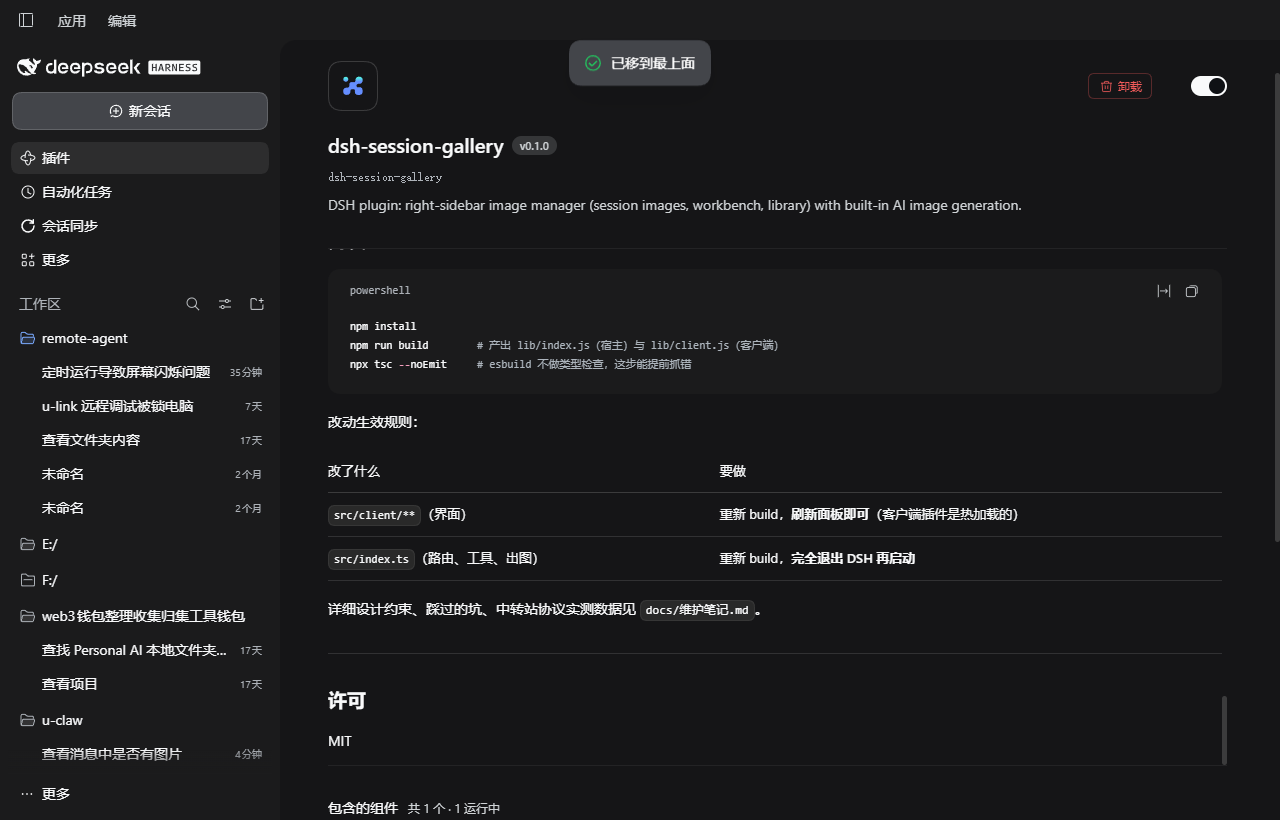
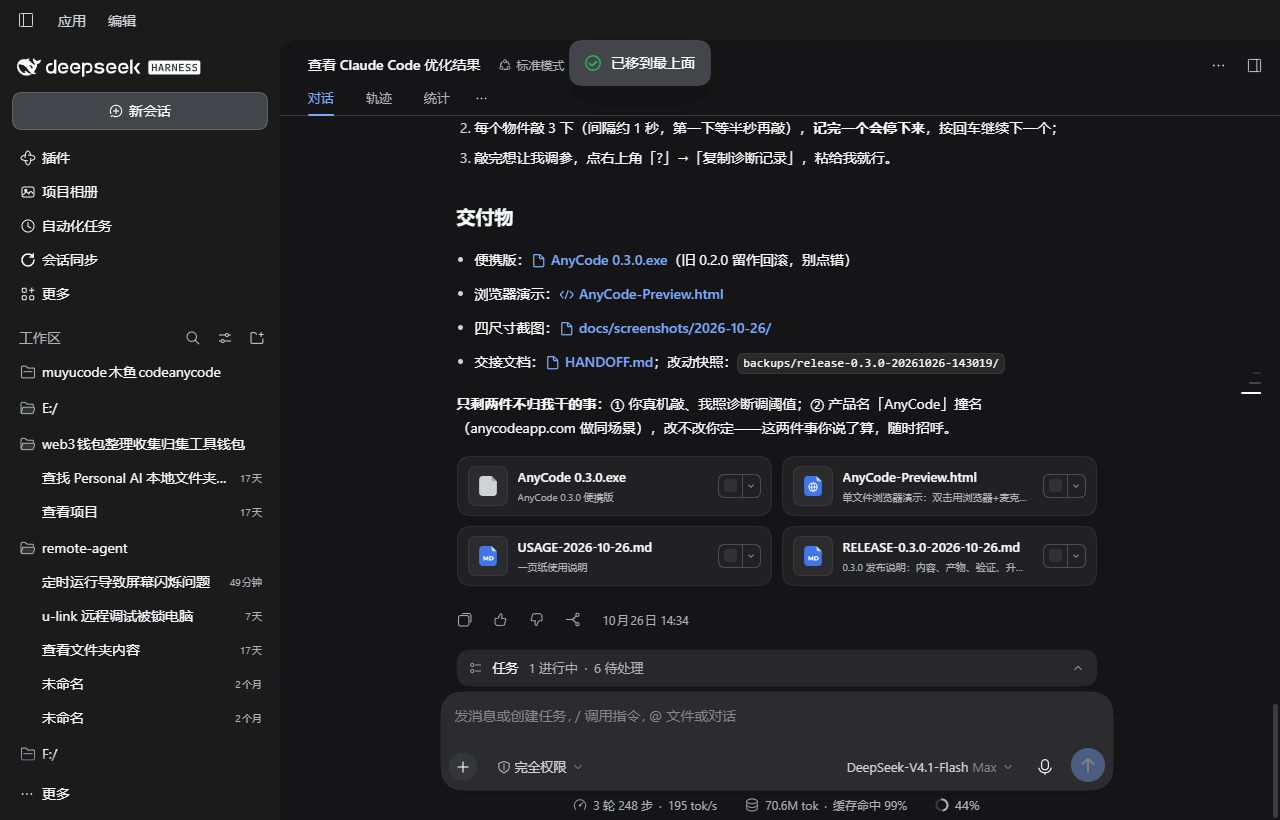
feat(0.4.2): give the structured menu row an up-arrow glyph
The structured row was label-only, so it looked different from the legacy build
that painted its own arrow. Register a contextMenu.icon keyed slot (14px SVG,
currentColor) and attach icon: { key: 'workspace.move-up' } to the action - the
same mechanism the built-in Rename/Delete actions use. Falls back to a label-only
row when react is unavailable.

Verified on macOS web (0.2.2-rc.1) and the Windows desktop app (0.2.2-rc.3):
glyph renders, moving a workspace reorders the list, toast and durable write
confirmed. Screenshots refreshed.

diff --git a/client/client.js b/client/client.js
@@ -46,6 +46,24 @@ window.__ModuleLoader__.load({
     // One installation per host context, even if the loader activates the bundle twice.
     var INSTALLED = typeof WeakSet === 'function' ? new WeakSet() : null
 
+    // The host renders a structured menu row from data; its glyph comes from the
+    // `contextMenu.icon` keyed slot. React is a host-provided module here (the
+    // same one the built-in menus use); when it is unavailable the row simply has
+    // no glyph, which is how 0.4.1 behaved.
+    var ICON_KEY = 'workspace.move-up'
+    var React = null
+    try { React = require('react') } catch (error) { React = null }
+    function MoveUpIcon() {
+      return React.createElement('svg', {
+        width: 14, height: 14, viewBox: '0 0 16 16', fill: 'none',
+        stroke: 'currentColor', strokeWidth: 1.5, strokeLinecap: 'round', strokeLinejoin: 'round',
+        'aria-hidden': 'true',
+      },
+        React.createElement('path', { d: 'M8 13V3.5' }),
+        React.createElement('path', { d: 'M3.5 8L8 3.5 12.5 8' }),
+      )
+    }
+
     /** POST one exact workspace id; resolves with the server result or rejects. */
     function moveWorkspace(workspaceId) {
       return fetch(API_PATH, {
@@ -69,10 +87,17 @@ window.__ModuleLoader__.load({
     function installStructuredMenu(ctx, onActive, onRetired, onDuplicate) {
       if (!ctx || typeof ctx.inject !== 'function') return 'absent'
       var status = 'absent'
-      var fiber = ctx.inject(['contextMenus'], function (scope) {
+      var fiber = ctx.inject(['contextMenus', 'slots'], function (scope) {
         try {
         var menus = scope.contextMenus
         if (!menus || typeof menus.register !== 'function') return
+        if (React && scope.slots && typeof scope.slots.inject === 'function') {
+          // Keyed glyph for the row this plugin contributes; the host dispatches
+          // it for ordinary, nested and footer actions.
+          scope.slots.inject('contextMenu.icon', function* () {
+            yield scope.slots.register({ name: 'contextMenu.icon', key: ICON_KEY }, MoveUpIcon)
+          })
+        }
         scope.effect(function () {
           var dispose = menus.register({
             id: 'workspace.move-up',
@@ -85,6 +110,7 @@ window.__ModuleLoader__.load({
                 id: 'move-up',
                 label: LABELS.menu,
                 failureLabel: LABELS.failed,
+                ...(React ? { icon: { key: ICON_KEY } } : {}),
                 run: function () {
                   return moveWorkspace(workspaceId).then(function (result) {
                     if (menus && typeof menus.notify === 'function') {

diff --git a/README.zh-CN.md b/README.zh-CN.md
@@ -14,8 +14,8 @@
 
 在真实界面里点过，两个平台都是结构化菜单后端：
 
-- macOS，DSH `0.2.2-rc.1` Web：这一行出现在工作区 `…` 菜单的**重命名**上方；对排第 4 的 workspace 点一次，它变成第一，弹出「已移到最上面」，存储里的持久顺序也变了；对本来就在第一的 workspace 点，提示「已经在最上面」，不产生写入。
-- Windows 11，DSH 桌面版 `0.2.2-rc.3`（Electron）：同样的行、同样的行为 —— 排第 3 的 workspace 移到第一，弹出「已移到最上面」，`storages/workspace.json` 里它排到了第一位。
+- macOS，DSH `0.2.2-rc.1` Web：这一行带向上箭头，出现在工作区 `…` 菜单的**重命名**上方；对排第 4 的 workspace 点一次，它变成第一，弹出「已移到最上面」，存储里的持久顺序也变了；对本来就在第一的 workspace 点，提示「已经在最上面」，不产生写入。
+- Windows 11，DSH 桌面版 `0.2.2-rc.3`（Electron）：同样的行、同样的箭头 —— 排第 3 的 workspace 移到第一，弹出「已移到最上面」，`storages/workspace.json` 里它排到了第一位。
 
 ![Windows 桌面版里的「移到最上面」](https://raw.githubusercontent.com/dongsheng123132/dsh-move-up/main/docs/screenshot-windows.png)
 

diff --git a/README.md b/README.md
@@ -15,10 +15,11 @@ Adds **Move to top** to a DeepSeek Harness workspace's `…` menu. One click per
 Checked against the real web UI and the real Windows desktop app, both on the structured
 context-menu backend:
 
-- macOS, DSH `0.2.2-rc.1` web: the row renders above **Rename**; clicking it on the 4th workspace
-  moved it to first (toast *Moved to top*) and the durable order in storage changed; clicking it
-  on the workspace that was already first reported *Already at the top* and wrote nothing.
-- Windows 11, DSH desktop `0.2.2-rc.3` (Electron): same row, same behaviour — the 3rd workspace
+- macOS, DSH `0.2.2-rc.1` web: the row renders above **Rename** with an up-arrow glyph; clicking it
+  on the 4th workspace moved it to first (toast *Moved to top*) and the durable order in storage
+  changed; clicking it on the workspace that was already first reported *Already at the top* and
+  wrote nothing.
+- Windows 11, DSH desktop `0.2.2-rc.3` (Electron): same row with the same glyph — the 3rd workspace
   moved to first with the *Moved to top* toast, and `storages/workspace.json` listed it first.
 
 ![Move to top in the Windows desktop app](https://raw.githubusercontent.com/dongsheng123132/dsh-move-up/main/docs/screenshot-windows.png)

diff --git a/CHANGELOG.md b/CHANGELOG.md
@@ -1,5 +1,15 @@
 # Changelog
 
+## 0.4.2 — 2026-11-18
+
+- **The structured row now has a glyph.** 0.4.x rendered a label-only row, so on
+  hosts with the structured menu the action looked different from the legacy
+  build, which painted its own `↑`. The client now registers a
+  `contextMenu.icon` keyed slot (`workspace.move-up`, a 14 px up arrow drawn with
+  `currentColor`) and attaches `icon: { key }` to the contribution — the same
+  mechanism the built-in Rename/Delete actions use. When `react` is not available
+  the row simply stays label-only instead of failing.
+
 ## 0.4.1 — 2026-11-17
 
 Follow-up to 0.4.0 after an adversarial review of the client lifecycle. Two real
